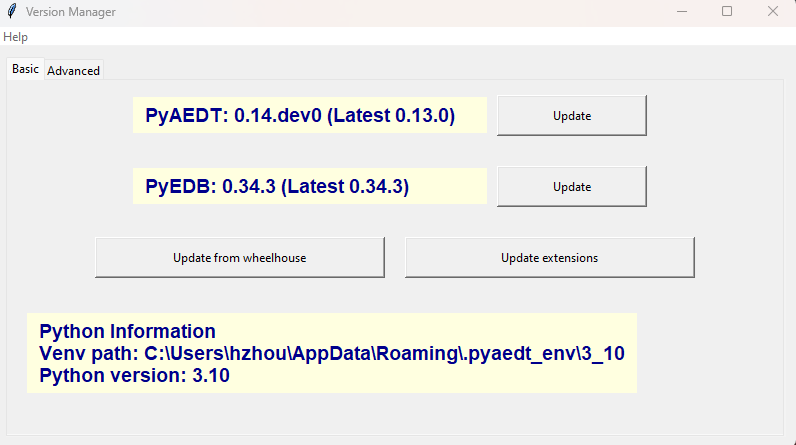
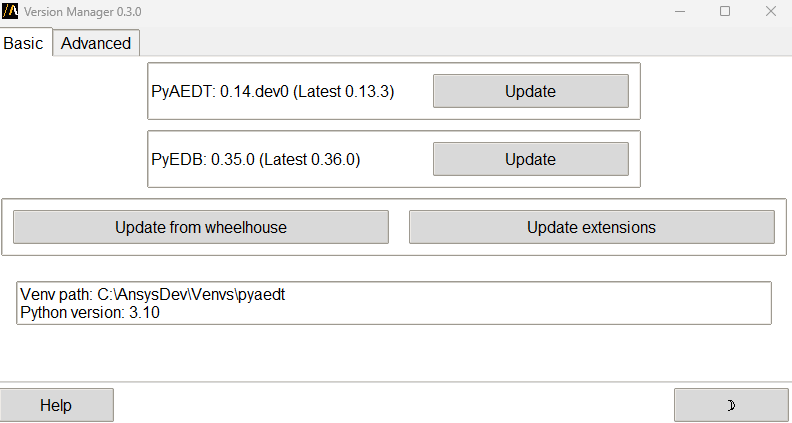
Version manager style

diff --git a/src/ansys/aedt/core/workflows/project/version_manager.py b/src/ansys/aedt/core/workflows/project/version_manager.py
@@ -29,7 +29,7 @@ import platform
 import shutil
 import subprocess
 import sys
-import tkinter as tk
+import tkinter
 from tkinter import filedialog
 from tkinter import messagebox
 from tkinter import ttk
@@ -86,7 +86,9 @@ def get_latest_version(package_name):
 
 class VersionManager:
     TITLE = "Version Manager {}".format(VERSION)
-    USER_GUIDE = "https://github.com/ansys-internal/pyaedt_version_manager"
+    USER_GUIDE = (
+        "https://aedt.docs.pyansys.com/version/stable/User_guide/pyaedt_extensions_doc/project" "/version_manager.html"
+    )
     UI_WIDTH = 800
     UI_HEIGHT = 400
 
@@ -116,26 +118,23 @@ class VersionManager:
         self.aedt_version = aedt_version
         self.personal_lib = personal_lib
 
-        style = ttk.Style()
+        from ansys.aedt.core.workflows.misc import ExtensionTheme
 
-        # Define the custom style for TLabel (ttk.Label)
-        style.configure(
-            "PyAEDT",
-            font=("Helvetica", 20, "bold"),  # Font style: Helvetica, size 14, bold
-            foreground="darkblue",  # Text color
-            background="lightyellow",  # Background color
-            padding=(10, 5),  # Padding inside the label
-            anchor="w",
-        )
+        # Configure style for ttk buttons
+        self.style = ttk.Style()
+        self.theme = ExtensionTheme()
 
-        self.venv_information = tk.StringVar()
-        self.pyaedt_info = tk.StringVar()
-        self.pyedb_info = tk.StringVar()
+        self.theme.apply_light_theme(self.style)
+        self.theme_color = "light"
+
+        self.venv_information = tkinter.StringVar()
+        self.pyaedt_info = tkinter.StringVar()
+        self.pyedb_info = tkinter.StringVar()
         self.venv_information.set("Venv Information")
 
-        self.pyaedt_branch_name = tk.StringVar()
+        self.pyaedt_branch_name = tkinter.StringVar()
         self.pyaedt_branch_name.set("main")
-        self.pyedb_branch_name = tk.StringVar()
+        self.pyedb_branch_name = tkinter.StringVar()
         self.pyedb_branch_name.set("main")
 
         self.ini_file_path = os.path.join(os.path.dirname(__file__), "settings.ini")
@@ -150,30 +149,57 @@ class VersionManager:
         self.root.title(self.TITLE)
         self.root.geometry(f"{self.UI_WIDTH}x{self.UI_HEIGHT}")
 
-        notebook = ttk.Notebook(self.root)
-        notebook.pack(fill="both", expand=True, padx=10, pady=10)
+        # Main panel
+        main_frame = ttk.PanedWindow(self.root, orient=tkinter.HORIZONTAL, style="TPanedwindow")
+        main_frame.pack(fill=tkinter.BOTH, expand=True)
 
-        tab_basic = ttk.Frame(notebook)
-        tab_advanced = ttk.Frame(notebook)
-        tab_extensions = ttk.Frame(notebook)
+        top_frame = ttk.Notebook(self.root, style="TNotebook")
+        main_frame.add(top_frame, weight=3)
 
-        notebook.add(tab_basic, text="Basic")
-        notebook.add(tab_advanced, text="Advanced")
-        # notebook.add(tab_extensions, text="Extensions")
+        tab_basic = ttk.Frame(top_frame, style="PyAEDT.TFrame")
+        tab_advanced = ttk.Frame(top_frame, style="PyAEDT.TFrame")
 
-        self.create_file_menu()
+        top_frame.add(tab_basic, text="Basic")
+        top_frame.add(tab_advanced, text="Advanced")
+
+        self.create_button_menu()
         self.create_ui_basic(tab_basic)
         self.create_ui_advanced(tab_advanced)
-        self.create_ui_extensions(tab_extensions)
 
         self.clicked_refresh()
 
-    def create_file_menu(self):
-        menu_bar = tk.Menu(root)
-        help_menu = tk.Menu(menu_bar, tearoff=0)
-        help_menu.add_command(label="User Guide", command=lambda: webbrowser.open(self.USER_GUIDE))
-        menu_bar.add_cascade(label="Help", menu=help_menu)
-        # self.root.config(menu=menu_bar)
+    def toggle_theme(self):
+        if self.theme_color == "light":
+            self.set_dark_theme()
+            self.theme_color = "dark"
+        else:
+            self.set_light_theme()
+            self.theme_color = "light"
+
+    def set_light_theme(self):
+        root.configure(bg=self.theme.light["widget_bg"])
+        self.theme.apply_light_theme(self.style)
+        self.change_theme_button.config(text="\u263D")
+
+    def set_dark_theme(self):
+        root.configure(bg=self.theme.dark["widget_bg"])
+        self.theme.apply_dark_theme(self.style)
+        self.change_theme_button.config(text="\u2600")
+
+    def create_button_menu(self):
+        menu_bar = ttk.Frame(self.root, height=30, style="PyAEDT.TFrame")
+        help_button = ttk.Button(
+            menu_bar, text="Help", command=lambda: webbrowser.open(self.USER_GUIDE), style="PyAEDT.TButton"
+        )
+
+        self.change_theme_button = ttk.Button(
+            menu_bar, text="\u263D", command=self.toggle_theme, style="PyAEDT.TButton"
+        )
+
+        self.change_theme_button.pack(side=tkinter.RIGHT, padx=5, pady=5)
+        help_button.pack(side=tkinter.LEFT, padx=5, pady=5)
+
+        menu_bar.pack(fill="x")
 
     def create_ui_basic(self, parent):
         def create_ui_wheelhouse(frame):
@@ -182,39 +208,39 @@ class VersionManager:
                 ["Update extensions", self.update_extensions],
             ]
             for text, cmd in buttons:
-                button = tk.Button(frame, text=text, width=40, height=2, command=cmd)
+                button = ttk.Button(frame, text=text, width=40, command=cmd, style="PyAEDT.TButton")
                 button.pack(side="left", padx=10, pady=10)
 
         def create_ui_pyaedt(frame):
-            label = ttk.Label(frame, textvariable=self.pyaedt_info, width=30, style="TLabel")
+            label = ttk.Label(frame, textvariable=self.pyaedt_info, width=30, style="PyAEDT.TLabel")
             label.pack(side="left")
 
             buttons = [
                 ["Update", self.update_pyaedt],
             ]
             for text, cmd in buttons:
-                button = tk.Button(frame, text=text, width=20, height=2, command=cmd)
+                button = ttk.Button(frame, text=text, width=20, command=cmd, style="PyAEDT.TButton")
                 button.pack(side="left", padx=10, pady=10)
 
         def create_ui_pyedb(frame):
-            label = ttk.Label(frame, textvariable=self.pyedb_info, width=30, style="TLabel")
+            label = ttk.Label(frame, textvariable=self.pyedb_info, width=30, style="PyAEDT.TLabel")
             label.pack(side="left")
 
             buttons = [
                 ["Update", self.update_pyedb],
             ]
             for text, cmd in buttons:
-                button = tk.Button(frame, text=text, width=20, height=2, command=cmd)
+                button = ttk.Button(frame, text=text, width=20, command=cmd, style="PyAEDT.TButton")
                 button.pack(side="left", padx=10, pady=10)
 
         def create_ui_info(frame):
-            label = ttk.Label(frame, textvariable=self.venv_information, style="TLabel")
+            label = ttk.Label(frame, textvariable=self.venv_information, style="PyAEDT.TLabel")
             label.pack(anchor="w")
 
-        frame0 = tk.Frame(parent)
-        frame1 = tk.Frame(parent)
-        frame2 = tk.Frame(parent)
-        frame3 = tk.Frame(parent)
+        frame0 = ttk.Frame(parent, style="PyAEDT.TFrame", relief=tkinter.SUNKEN, borderwidth=2)
+        frame1 = ttk.Frame(parent, style="PyAEDT.TFrame", relief=tkinter.SUNKEN, borderwidth=2)
+        frame2 = ttk.Frame(parent, style="PyAEDT.TFrame", relief=tkinter.SUNKEN, borderwidth=2)
+        frame3 = ttk.Frame(parent, style="PyAEDT.TFrame", relief=tkinter.SUNKEN, borderwidth=2)
 
         frame0.pack(padx=5, pady=5)
         frame1.pack(padx=5, pady=5)
@@ -228,40 +254,40 @@ class VersionManager:
 
     def create_ui_advanced(self, parent):
         def create_ui_pyaedt(frame):
-            label = ttk.Label(frame, text="PyAEDT", width=10, style="TLabel")
+            label = ttk.Label(frame, text="PyAEDT", width=10, style="PyAEDT.TLabel")
             label.pack(side="left")
 
             buttons = [
                 ["Get Branch", self.get_pyaedt_branch],
             ]
             for text, cmd in buttons:
-                button = tk.Button(frame, text=text, width=20, height=2, command=cmd)
+                button = ttk.Button(frame, text=text, width=20, command=cmd, style="PyAEDT.TButton")
                 button.pack(side="left", padx=10, pady=10)
-            entry = tk.Entry(frame, width=30, textvariable=self.pyaedt_branch_name)
+            entry = ttk.Entry(frame, width=30, textvariable=self.pyaedt_branch_name)
             entry.pack(side="left")
 
         def create_ui_pyedb(frame):
-            label = ttk.Label(frame, text="PyEDB", width=10, style="TLabel")
+            label = ttk.Label(frame, text="PyEDB", width=10, style="PyAEDT.TLabel")
             label.pack(side="left")
 
             buttons = [
                 ["Get Branch", self.get_pyedb_branch],
             ]
             for text, cmd in buttons:
-                button = tk.Button(frame, text=text, width=20, height=2, command=cmd)
+                button = ttk.Button(frame, text=text, width=20, command=cmd, style="PyAEDT.TButton")
                 button.pack(side="left", padx=10, pady=10)
-            entry = tk.Entry(frame, width=30, textvariable=self.pyedb_branch_name)
+            entry = ttk.Entry(frame, width=30, textvariable=self.pyedb_branch_name)
             entry.pack(side="left")
 
         def create_ui_pyaedt_buttons(frame):
             buttons = [["Reset PyAEDT Buttons", self.reset_pyaedt_buttons_in_aedt]]
             for text, cmd in buttons:
-                button = tk.Button(frame, text=text, width=40, height=2, command=cmd)
+                button = ttk.Button(frame, text=text, width=40, command=cmd, style="PyAEDT.TButton")
                 button.pack(side="left", padx=10, pady=10)
 
-        frame0 = tk.Frame(parent)
-        frame1 = tk.Frame(parent)
-        frame2 = tk.Frame(parent)
+        frame0 = ttk.Frame(parent, style="PyAEDT.TFrame", relief=tkinter.SUNKEN, borderwidth=2)
+        frame1 = ttk.Frame(parent, style="PyAEDT.TFrame", relief=tkinter.SUNKEN, borderwidth=2)
+        frame2 = ttk.Frame(parent, style="PyAEDT.TFrame", relief=tkinter.SUNKEN, borderwidth=2)
 
         frame0.pack(padx=5, pady=5)
         frame1.pack(padx=5, pady=5)
@@ -272,14 +298,14 @@ class VersionManager:
         create_ui_pyaedt_buttons(frame2)
 
     def create_ui_extensions(self, parent):
-        frame = tk.Frame(parent)
+        frame = ttk.Frame(parent, style="PyAEDT.TFrame", relief=tkinter.SUNKEN, borderwidth=2)
         frame.pack(padx=5, pady=5)
 
         buttons = [
             ["Update Configure Layout", self.update_extensions],
         ]
         for text, cmd in buttons:
-            button = tk.Button(frame, text=text, width=20, height=2, command=cmd)
+            button = ttk.Button(frame, text=text, width=20, command=cmd, style="PyAEDT.TButton")
             button.pack(side="left", padx=10, pady=10)
 
     def update_extensions(self):
@@ -524,12 +550,13 @@ def get_desktop_info(release_desktop=True):
     personal_lib = app.personallib
     if release_desktop:
         app.release_desktop(close_project, close_on_exit)
+
     return {"desktop": app, "aedt_version": aedt_version, "personal_lib": personal_lib}
 
 
 if __name__ == "__main__":
     kwargs = get_desktop_info()
     # Initialize tkinter root window and run the app
-    root = tk.Tk()
+    root = tkinter.Tk()
     app = VersionManager(root, **kwargs)
     root.mainloop()
